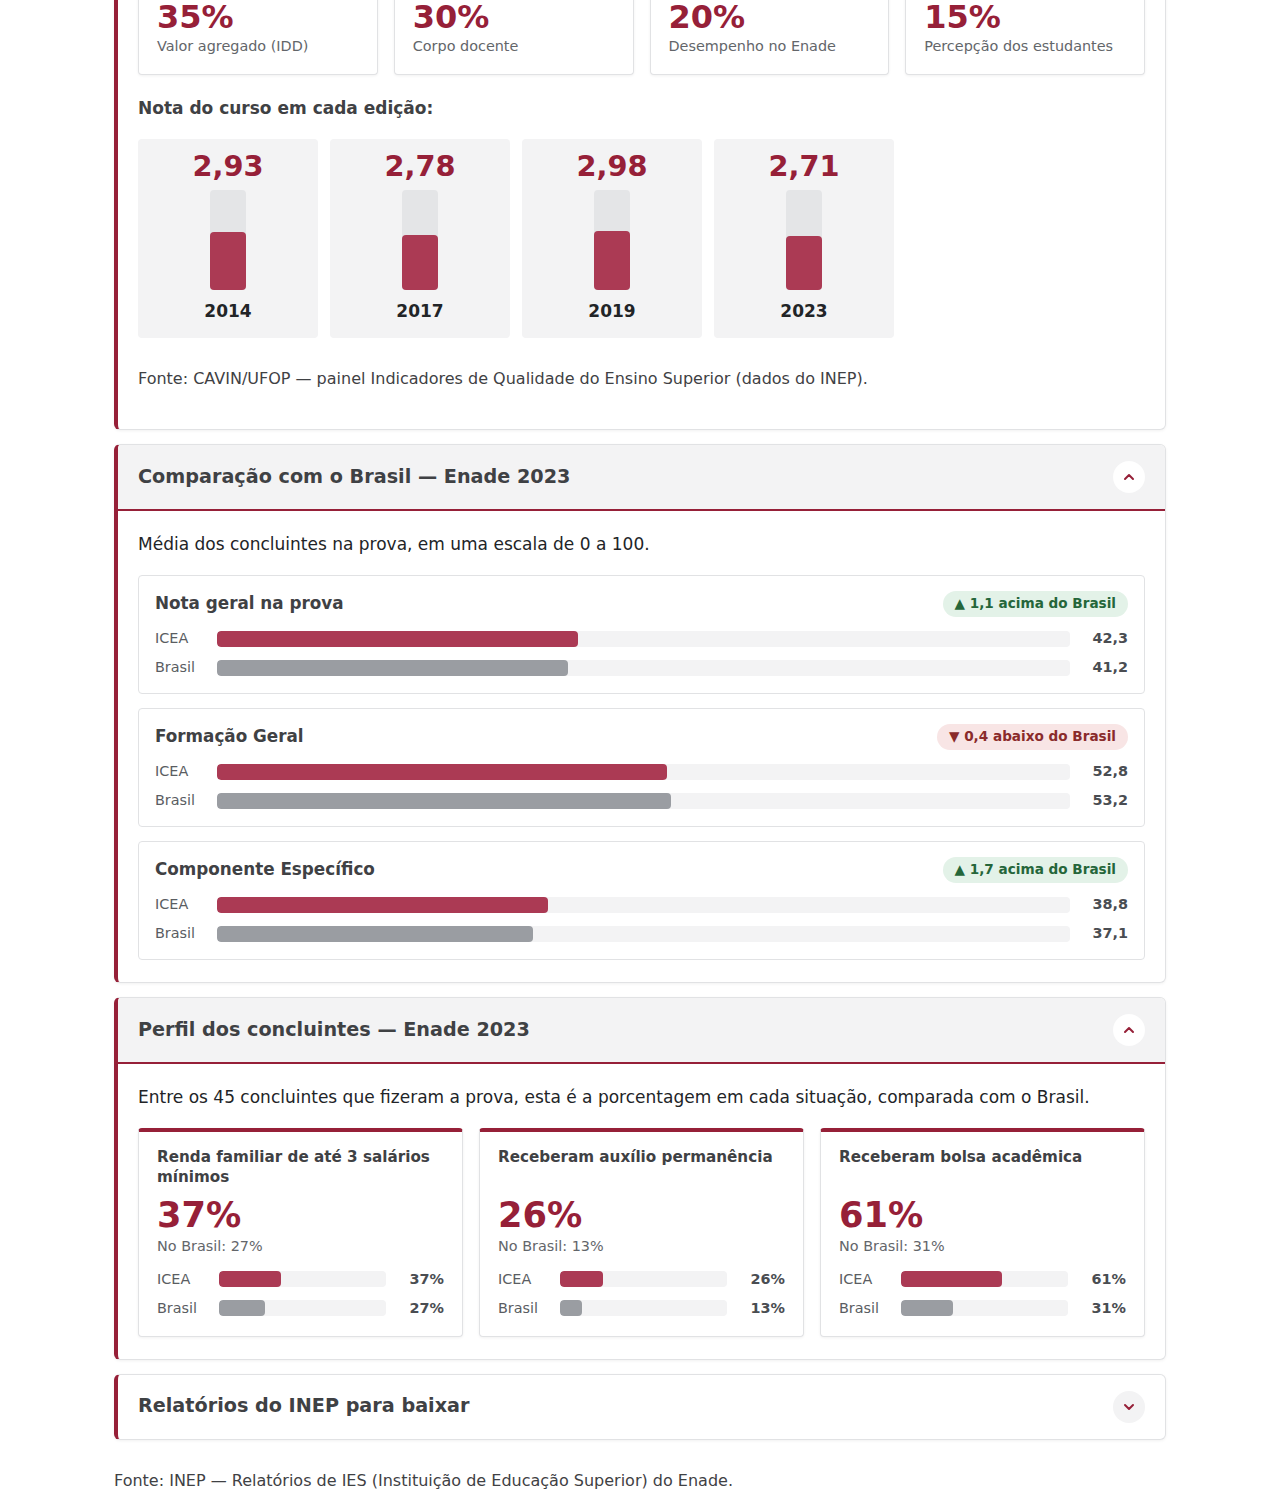
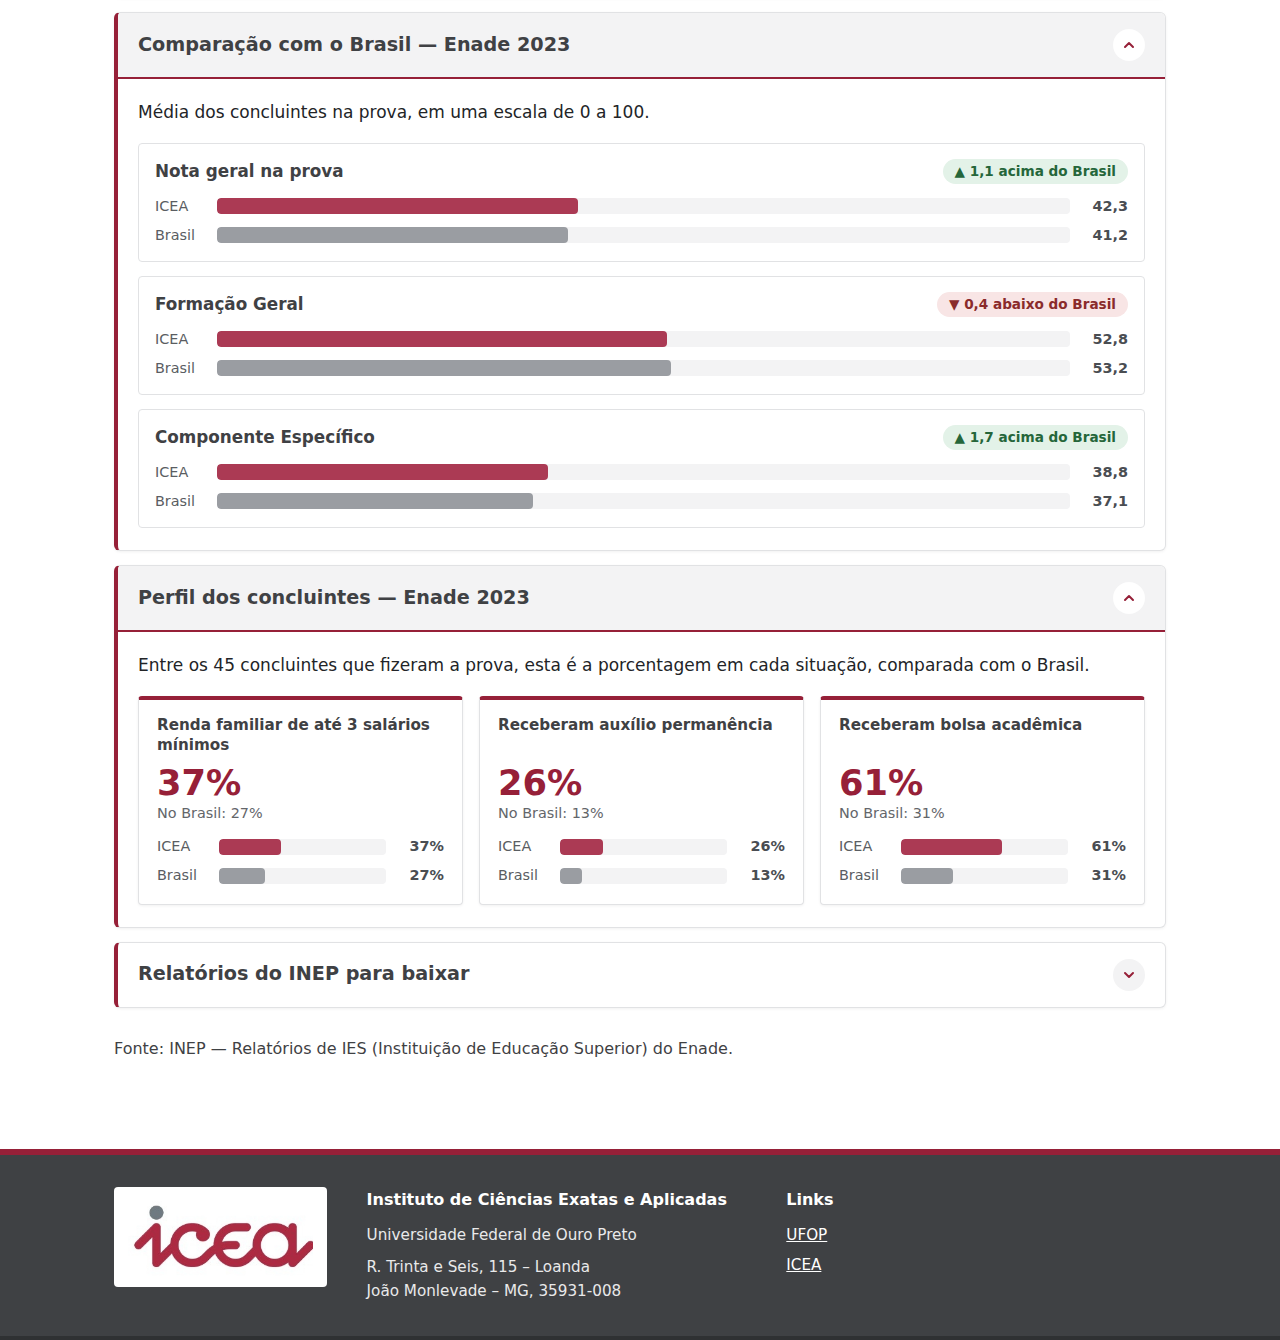
Remove o CPC da página Resultados
- apaga o BlocoCpc, as regras de CSS dele e os testes do CPC (58 testes restam)
- README: tira as menções ao CPC e à fonte da CAVIN, troca a captura de Resultados
  e ajusta o texto sobre a comparabilidade das edições
- regera as capturas de Resultados (computador e celular) sem o bloco

diff --git a/src/pages/Resultados.test.jsx b/src/pages/Resultados.test.jsx
@@ -5,7 +5,6 @@ import { simularApi } from "../test/api";
 import Resultados from "./Resultados";
 
 const resultados = {
-  fonteCpc: "Fonte de teste do CPC",
   cursos: [
     {
       chave: "ec",
@@ -13,10 +12,6 @@ const resultados = {
       edicoes: [
         { ano: 2019, conceito: 3, presentes: 51, populacao: 53 },
         { ano: 2023, conceito: 3, presentes: 45, populacao: 51 },
-      ],
-      cpc: [
-        { ano: 2019, valor: 2.98 },
-        { ano: 2023, valor: 2.71 },
       ],
       comparacao: {
         ano: 2023,
@@ -36,7 +31,6 @@ const resultados = {
       chave: "si",
       nome: "Sistemas de Informação",
       edicoes: [{ ano: 2021, conceito: 4, presentes: 45, populacao: 51 }],
-      cpc: [{ ano: 2021, valor: 3.42 }],
       comparacao: {
         ano: 2021,
         geral: { curso: 44.9, brasil: 38.3 },
@@ -88,11 +82,10 @@ describe("Resultados", () => {
     expect(screen.getByRole("button", { name: "Sistemas de Informação" })).toBeInTheDocument();
   });
 
-  it("mostra os cinco tópicos; só os Relatórios começam fechados", async () => {
+  it("mostra os quatro tópicos; só os Relatórios começam fechados", async () => {
     await renderizar();
 
     expect(topico("Conceito Enade em cada edição")).toHaveAttribute("open");
-    expect(topico("CPC em cada edição")).toHaveAttribute("open");
     expect(topico("Comparação com o Brasil — Enade 2023")).toHaveAttribute("open");
     expect(topico("Perfil dos concluintes — Enade 2023")).toHaveAttribute("open");
     expect(topico("Relatórios do INEP para baixar")).not.toHaveAttribute("open");
@@ -112,51 +105,6 @@ describe("Resultados", () => {
       const { container } = await renderizar();
 
       expect(container).not.toHaveTextContent(/O conceito vai de 1 a 5/);
-    });
-  });
-
-  describe("CPC", () => {
-    it("mostra o CPC de cada edição com duas casas e vírgula", async () => {
-      await renderizar();
-      const secao = within(topico("CPC em cada edição"));
-
-      expect(secao.getByText("2,98")).toBeInTheDocument();
-      expect(secao.getByText("2,71")).toBeInTheDocument();
-    });
-
-    it("mostra os pesos (35/30/20/15) e eles somam 100%", async () => {
-      await renderizar();
-      const secao = topico("CPC em cada edição");
-      const pesos = [...secao.querySelectorAll(".kpi-valor")].map((e) =>
-        parseInt(e.textContent, 10),
-      );
-
-      expect(pesos).toEqual([35, 30, 20, 15]);
-      expect(pesos.reduce((a, b) => a + b, 0)).toBe(100);
-    });
-
-    it("tem links para entender o cálculo: painel da CAVIN e documentos do INEP, em nova aba", async () => {
-      await renderizar();
-      const secao = within(topico("CPC em cada edição"));
-      const cavin = secao.getByRole("link", { name: "painel da CAVIN/UFOP" });
-      const inep = secao.getByRole("link", { name: "documentos do INEP" });
-
-      expect(cavin).toHaveAttribute("href", "https://cavinufop.shinyapps.io/Indicadores_UFOP/");
-      expect(inep).toHaveAttribute("href", expect.stringContaining("gov.br/inep"));
-      for (const link of [cavin, inep]) {
-        expect(link).toHaveAttribute("target", "_blank");
-        expect(link).toHaveAttribute("rel", expect.stringContaining("noopener"));
-      }
-      // a indicação de onde clicar no painel fica na dica do link
-      expect(cavin).toHaveAttribute("title", expect.stringContaining("Como interpretar o CPC"));
-    });
-
-    it("explica a sigla e cita a fonte", async () => {
-      await renderizar();
-      const secao = within(topico("CPC em cada edição"));
-
-      expect(secao.getByText(/Conceito Preliminar de Curso/)).toBeInTheDocument();
-      expect(secao.getByText(/Fonte de teste do CPC/)).toBeInTheDocument();
     });
   });
 
@@ -215,15 +163,15 @@ describe("Resultados", () => {
     const usuario = userEvent.setup();
     await renderizar();
 
-    await usuario.click(screen.getByText("CPC em cada edição")); // fecha o CPC
+    await usuario.click(screen.getByText("Conceito Enade em cada edição")); // fecha o tópico
     await usuario.click(screen.getByRole("button", { name: "Sistemas de Informação" }));
 
     // títulos acompanham o ano dos dados do curso novo (2021 para Sistemas)
     expect(screen.getByText("Comparação com o Brasil — Enade 2021")).toBeInTheDocument();
     expect(screen.getByText("Perfil dos concluintes — Enade 2021")).toBeInTheDocument();
     expect(within(topico("Conceito Enade em cada edição")).getByText("2021")).toBeInTheDocument();
-    // o CPC continua fechado, como o usuário deixou
-    expect(topico("CPC em cada edição")).not.toHaveAttribute("open");
+    // o tópico continua fechado, como o usuário deixou
+    expect(topico("Conceito Enade em cada edição")).not.toHaveAttribute("open");
   });
 
   describe("relatórios do INEP", () => {

diff --git a/src/pages/Resultados.jsx b/src/pages/Resultados.jsx
@@ -1,5 +1,4 @@
 import { useState, useEffect } from "react";
-import BlocoCpc from "../components/BlocoCpc";
 import Topico from "../components/Topico";
 import { API_URL } from "../api";
 
@@ -119,8 +118,6 @@ function Resultados() {
               ))}
             </div>
           </Topico>
-
-          <BlocoCpc cpc={curso.cpc} fonte={dados.fonteCpc} />
 
           <Topico titulo={`Comparação com o Brasil — Enade ${curso.comparacao.ano}`}>
             <p>Média dos concluintes na prova, em uma escala de 0 a 100.</p>

diff --git a/src/index.css b/src/index.css
@@ -1271,12 +1271,6 @@ tbody tr:nth-child(even) {
   }
 }
 
-.cpc-sub {
-  margin: 20px 0 0;
-  font-weight: 600;
-  color: var(--cinza-escuro);
-}
-
 /* ===== Tópicos expansíveis (página Resultados) ===== */
 .topico {
   margin-top: 14px;
@@ -1363,10 +1357,4 @@ tbody tr:nth-child(even) {
   .topico-corpo {
     padding: 4px 14px 18px;
   }
-}
-
-.cpc-saiba-mais {
-  margin: 16px 0 0;
-  font-size: 0.95rem;
-  color: var(--cinza-escuro);
 }

diff --git a/README.md b/README.md
@@ -52,11 +52,11 @@ direcionar os estudos. Cada disciplina abre e fecha para não sobrecarregar a le
 <img src="docs/screenshots/04-edicoes.png" alt="Disciplinas e assuntos do Enade 2023 de Engenharia de Computação" width="860">
 
 ### Resultados
-Conceito Enade e CPC de cada edição, comparação das médias do ICEA com as do Brasil (Formação Geral
+Conceito Enade de cada edição, comparação das médias do ICEA com as do Brasil (Formação Geral
 e Componente Específico), perfil socioeconômico dos concluintes e os **relatórios oficiais do INEP
 para baixar**. Os blocos são expansíveis.
 
-<img src="docs/screenshots/05-resultados-conceito-cpc.png" alt="Conceito Enade e CPC dos cursos do ICEA" width="860">
+<img src="docs/screenshots/05-resultados-conceito.png" alt="Conceito Enade dos cursos do ICEA e comparação com o Brasil" width="860">
 
 <img src="docs/screenshots/06-resultados-comparacao-perfil.png" alt="Comparação com a média do Brasil e perfil dos concluintes" width="860">
 
@@ -90,7 +90,7 @@ Todas as telas foram pensadas para telas pequenas, com menu recolhido e gráfico
 - **Usabilidade:** link "pular para o conteúdo", seções expansíveis nativas (`<details>`, que
   funcionam pelo teclado) e botões com rótulos claros.
 - **Informação sem exagero:** cada tela mostra poucos dados importantes, com explicações curtas das
-  siglas (CPC, IES) para quem não conhece o vocabulário do Enade.
+  sigla (IES) para quem não conhece o vocabulário do Enade.
 
 ## Tecnologias
 
@@ -182,8 +182,7 @@ src/
 ├── App.jsx                rotas
 ├── components/
 │   ├── Layout.jsx         cabeçalho, menu e rodapé
-│   ├── Topico.jsx         seção que abre e fecha
-│   └── BlocoCpc.jsx       bloco do CPC (fácil de remover)
+│   └── Topico.jsx         seção que abre e fecha
 ├── data/avaliaufop.js     cursos, módulos e links do Moodle
 ├── pages/                 Início, AvaliaUFOP, Desempenho, Edições e Resultados
 ├── test/                  utilitários dos testes (API simulada)
@@ -194,11 +193,11 @@ docs/screenshots/          imagens deste README
 ## Fontes dos dados
 
 - Relatórios de IES do Enade — **INEP** (UFOP, campus João Monlevade).
-- Indicadores de qualidade (CPC) — painel da **CAVIN/UFOP**, com dados do INEP.
 - Notas dos simulados — exports do Moodle da **UFOP Aberta**, anonimizados.
 
 O INEP informa que as notas do Enade só são comparáveis dentro da mesma área e do mesmo ano, e não
-entre edições. O painel respeita essa regra na forma como apresenta os números.
+entre edições. Por isso o painel mostra o resultado de cada edição separadamente e só compara o ICEA
+com a média do Brasil no mesmo ano, sem calcular variações entre anos.
 
 ## Autoria
 
